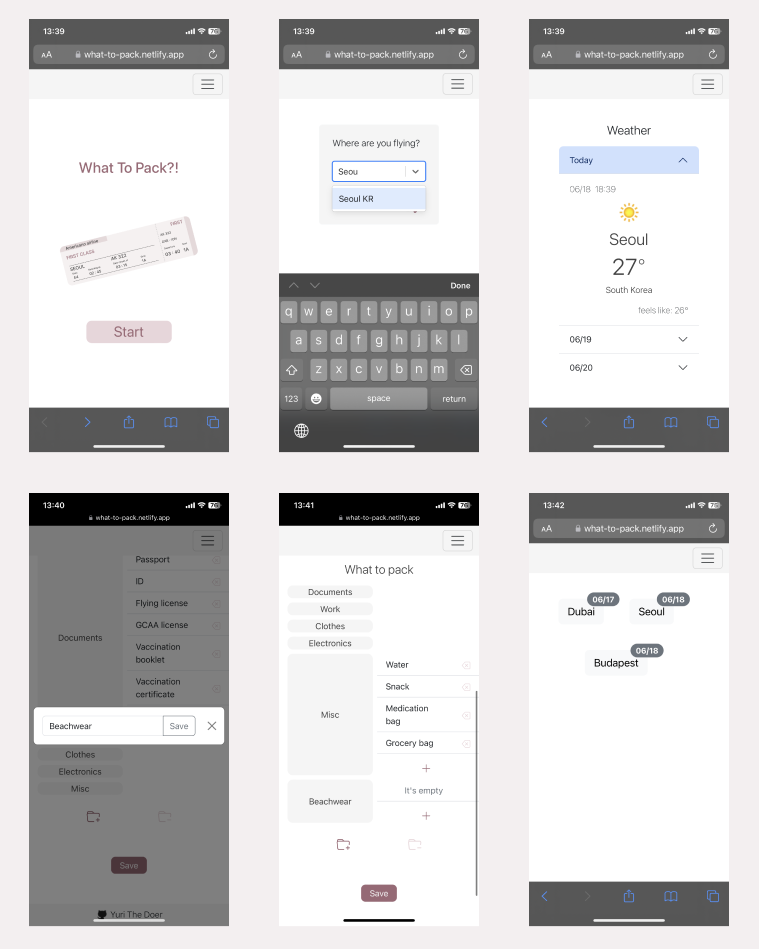
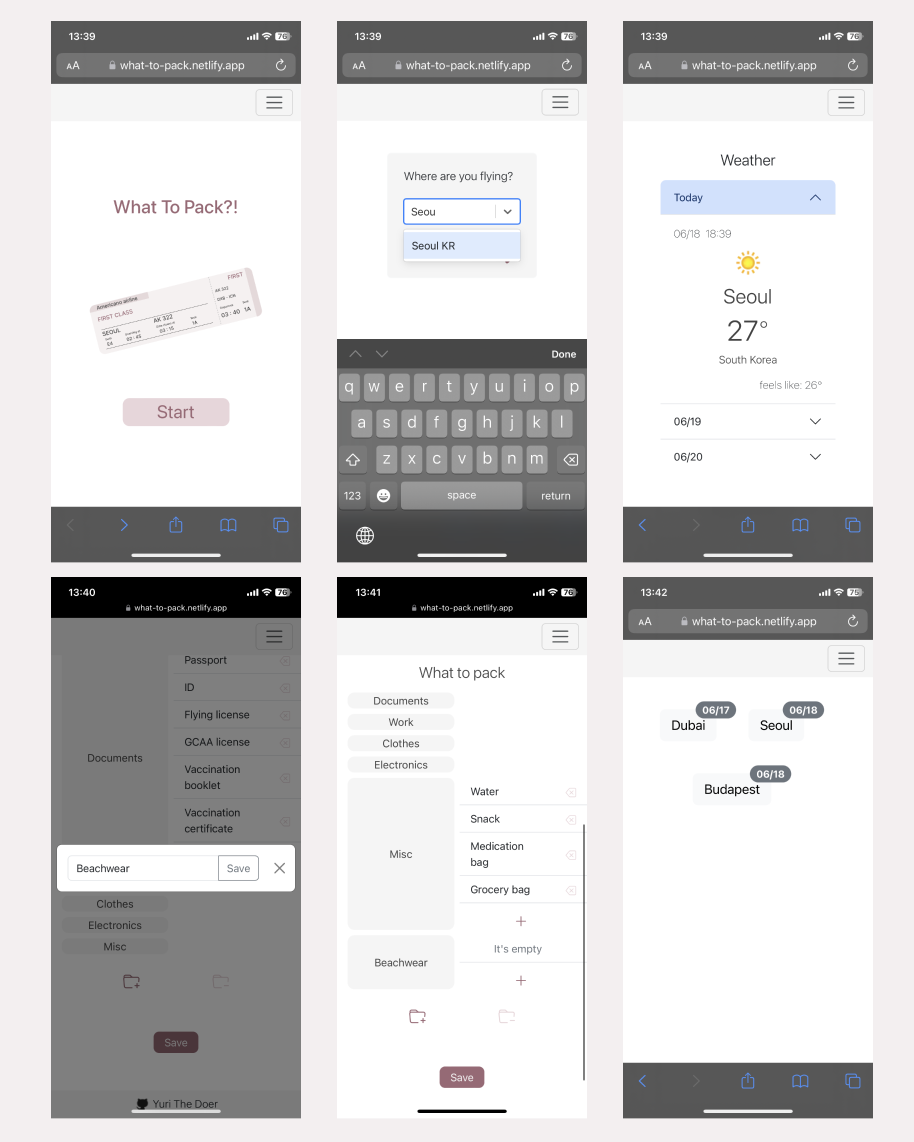
Fix image

diff --git a/README.md b/README.md
@@ -19,7 +19,7 @@ Say goodbye to the hassle of opening multiple apps to check the weather and take
 
 ## What it does
 
-![wtpREADME](./src/assets/images/figmaForWTP.png)
+![wtpREADME](./src/assets/images/wtpREADME.png.png)
 
 **What to Pack** is a helpful travel app that helps users organize their packing list based on their destination and weather. Users can easily search for any location and view detailed weather forecasts for the next two days, including today. The app comes with a default packing list, but users can personalize it by adding or removing categories and items to suit their travel plans. Trip details can be saved for future reference, allowing users to conveniently edit their packing list whenever needed.
 
